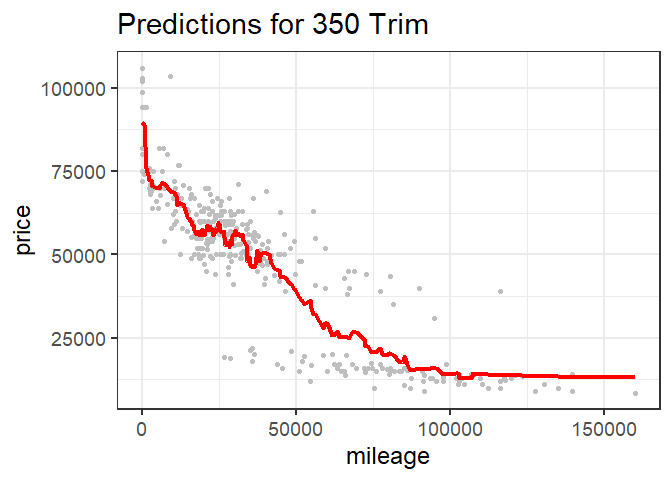
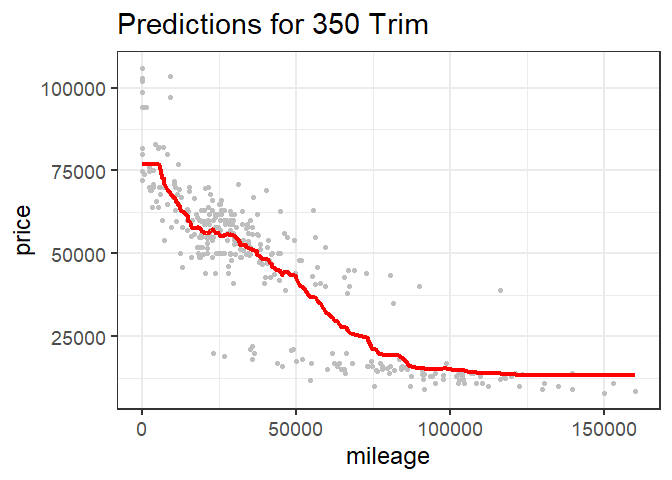
final?????

diff --git a/My Work/Homework/Homework-1.md b/My Work/Homework/Homework-1.md
@@ -48,7 +48,7 @@ for each trim.
 
 ![](Homework-1_files/figure-markdown_strict/plots2-1.png)
 
-For the 350 trim, our optimum value of K is K = 15
+For the 350 trim, our optimum value of K is K = 50
 
 ![](Homework-1_files/figure-markdown_strict/65plot-1.png) It is harder
 to tell for the 65 AMG trim, but it seems that our optimal K is
